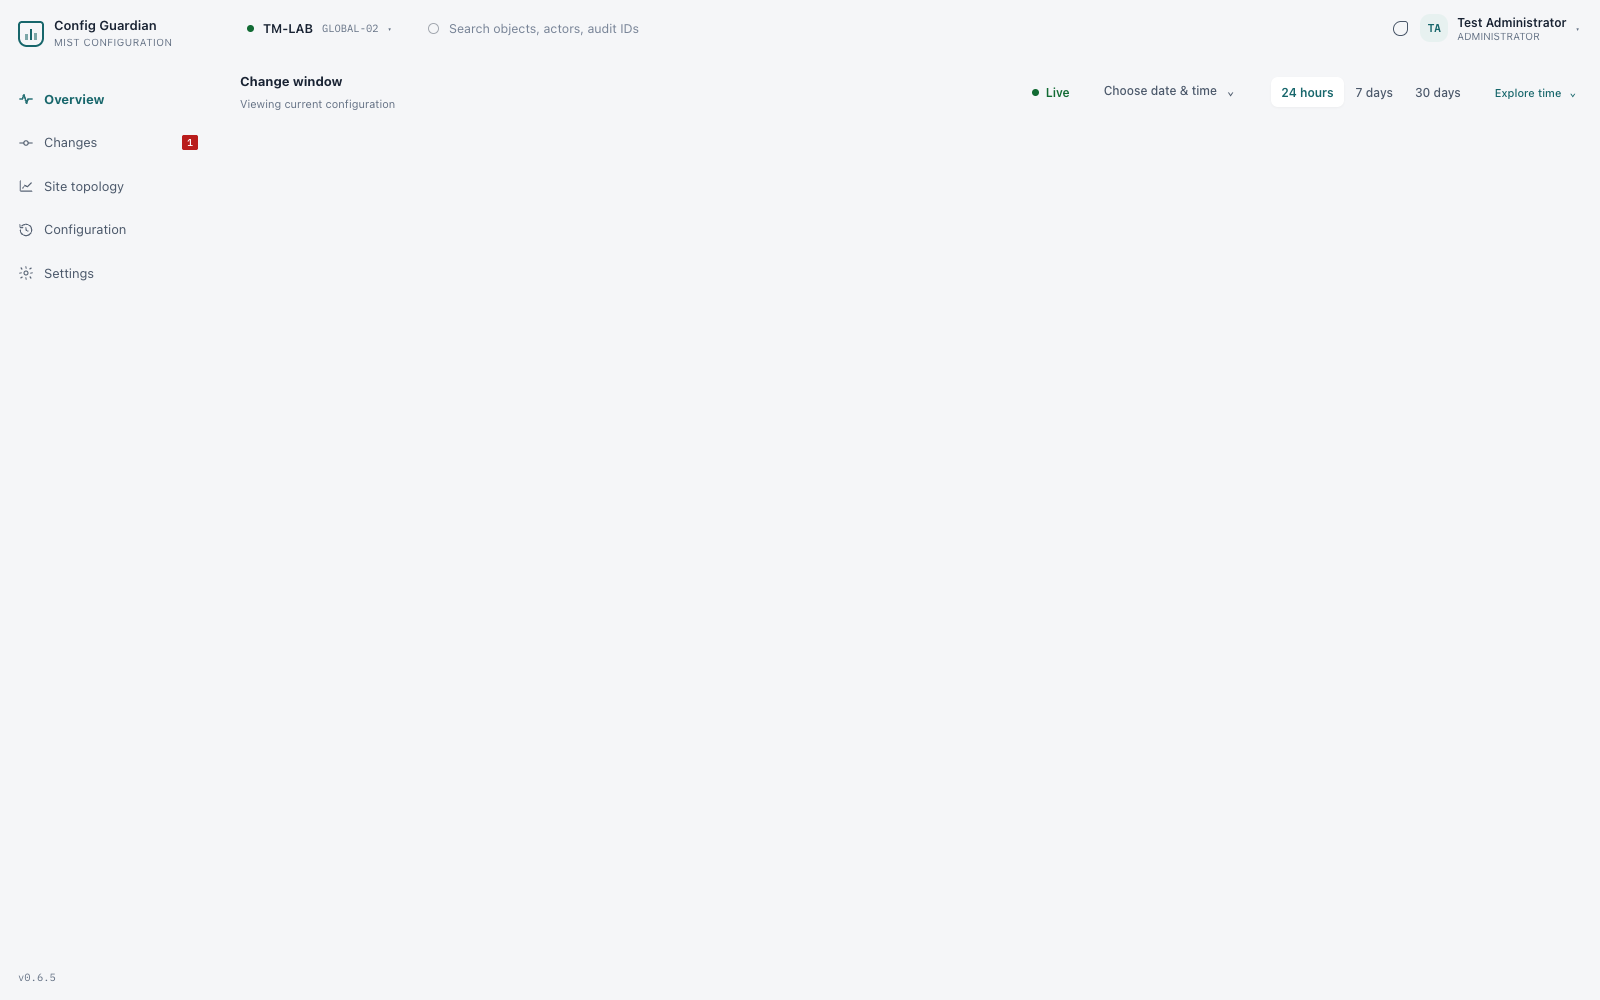
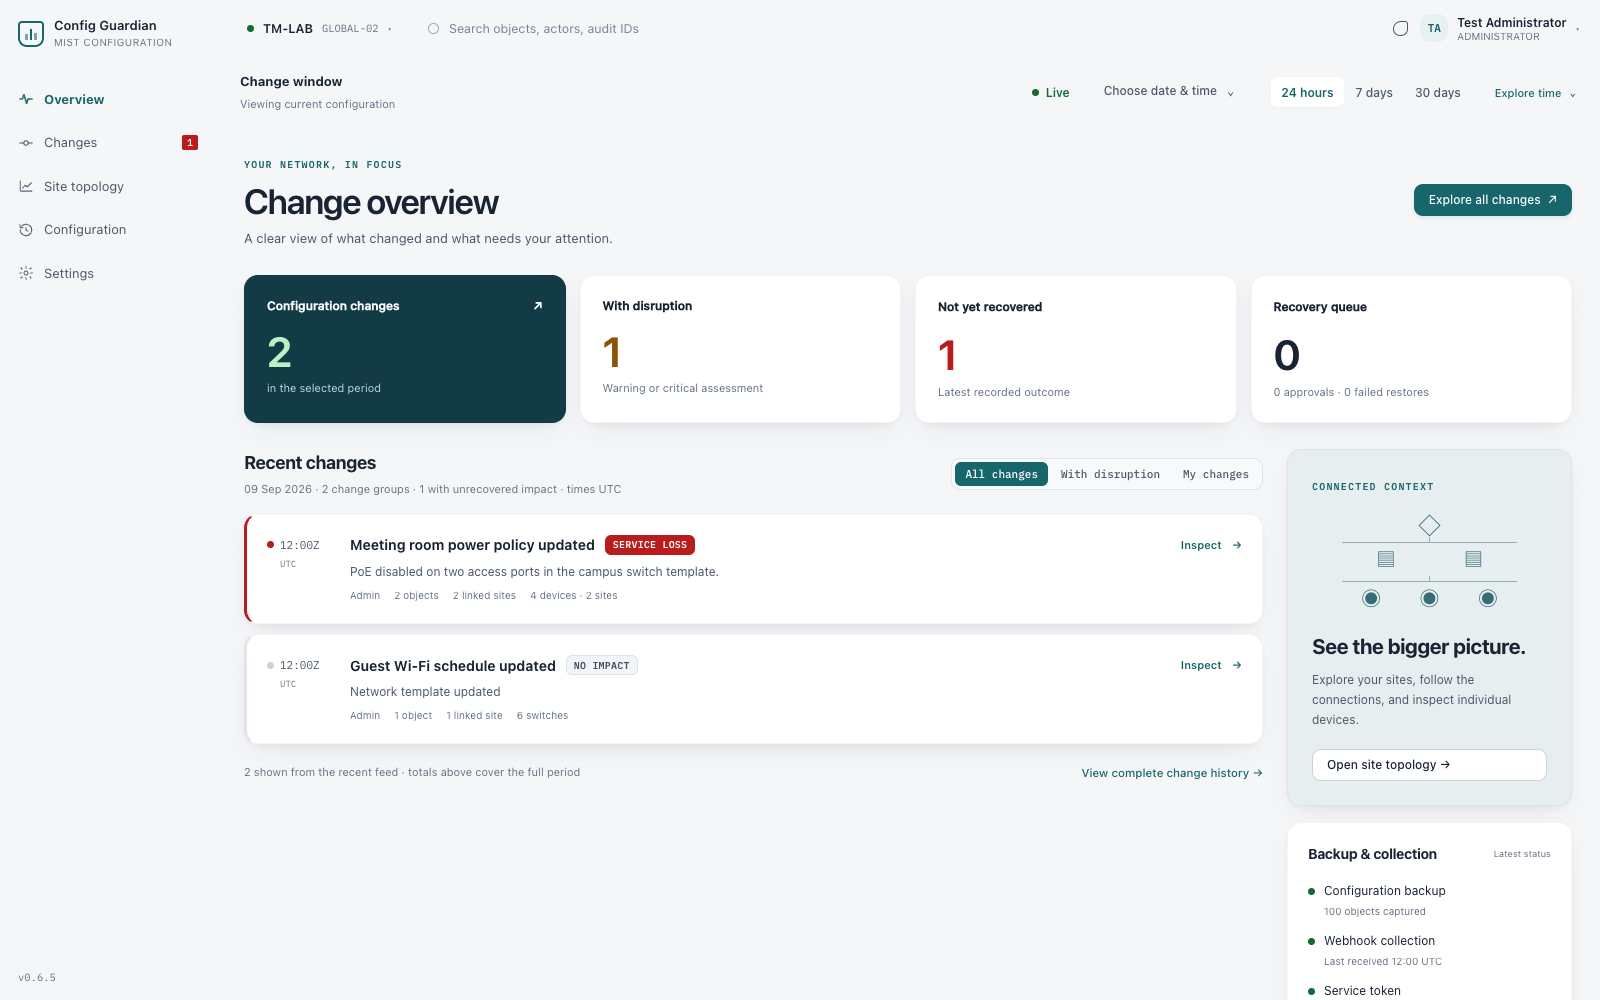
Verify isolated UI changes and refresh dashboard preview

diff --git a/frontend/e2e/workspace.spec.js b/frontend/e2e/workspace.spec.js
@@ -779,10 +779,16 @@ test('change workspace brings configuration, cross-site reach and device evidenc
   await page.goto('/overview');
   await expect(page.getByRole('heading', { name: 'Change overview' })).toBeVisible();
   await expect(page.locator('.card')).toHaveCount(2);
-  await page.screenshot({ path: info.outputPath('change-overview-desktop.png') });
+  await expect(page.locator('.card').first()).toBeVisible();
+  await expect(page.locator('.page-host--hidden')).toHaveCount(0);
+  await page.getByRole('heading', { name: 'Change overview' }).scrollIntoViewIfNeeded();
+  await expect(page.getByRole('heading', { name: 'Change overview' })).toBeInViewport();
+  await page.screenshot({ path: info.outputPath('change-overview-desktop.png'), animations: 'disabled' });
   await page.getByRole('button', { name: 'Inspect Meeting room power policy updated', exact: true }).click();
   await expect(page).toHaveURL(/\/changes\?group=g0/);
-  await page.goto('/changes');
+  await expect(page.locator('.panel-title')).toBeVisible();
+  await page.locator('.panel-close').click();
+  await expect(page.locator('.panel-title')).toHaveCount(0);
   await expect(page.locator('.track-seek')).toBeHidden();
   await expect(page.locator('.row--group').first()).toBeVisible();
   await page.locator('.row--group').first().focus();

diff --git a/DECISION.md b/DECISION.md
@@ -113,7 +113,7 @@ server's existing authorization, approvals and execution gates are unchanged.
 Missing previous versions are visible exclusions, not a promised complete undo.
 See `docs/design/change-event-impact.md` for API and interaction conventions.
 
-Validation: 2,604 backend tests passed, with 109 environment-dependent tests
+Validation on the isolated PR checkout: 2,596 backend tests passed, with 109 environment-dependent tests
 skipped; 436 frontend tests and all 16 Chrome scenarios passed. Backend format,
 lint, source type checks, the exported OpenAPI contract, and the frontend
 production build passed. After the final advanced-target navigation adjustment,
